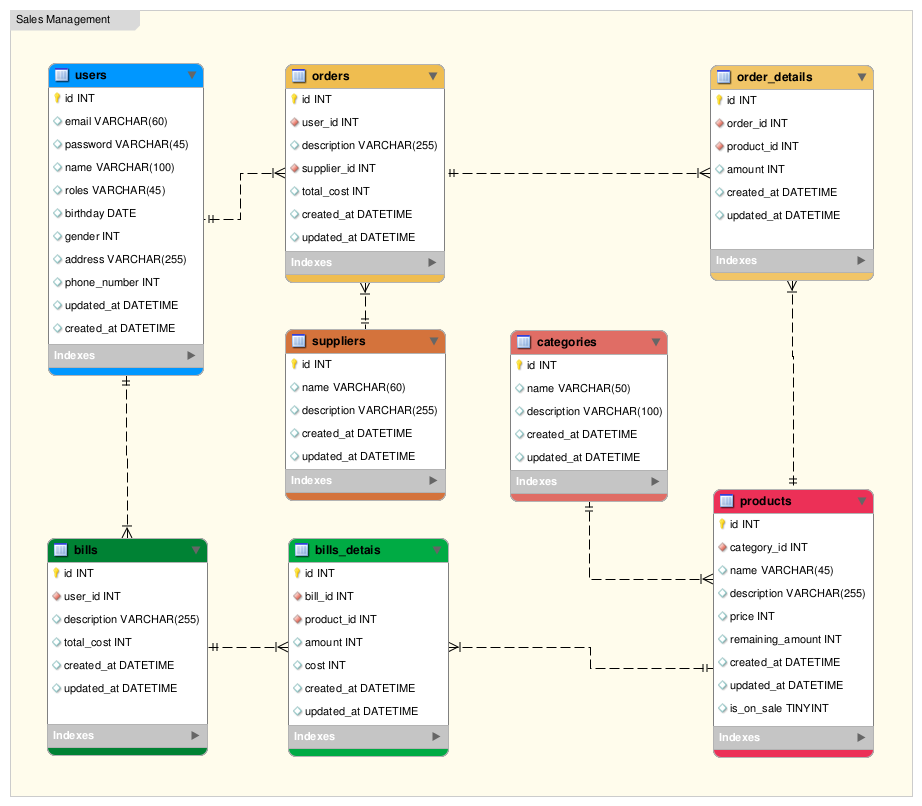
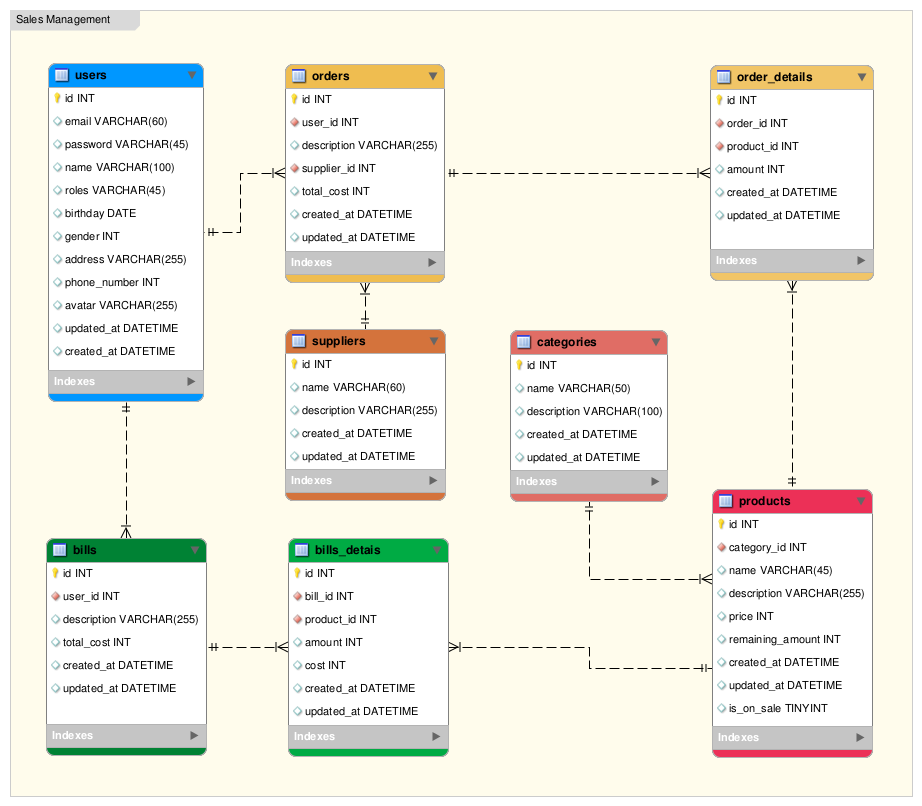
Update app.blade.php and database docs

diff --git a/public/css/custom.css b/public/css/custom.css
@@ -1,0 +1,3 @@
+.site_title {
+    font-size: 20px;
+}

diff --git a/resources/views/layouts/app.blade.php b/resources/views/layouts/app.blade.php
@@ -13,16 +13,11 @@
     <link href="/bower_resources/gentelella/vendors/bootstrap/dist/css/bootstrap.min.css" rel="stylesheet">
     <!-- Font Awesome -->
     <link href="/bower_resources/gentelella/vendors/font-awesome/css/font-awesome.min.css" rel="stylesheet">
-    <!-- iCheck -->
-    <link href="/bower_resources/gentelella/vendors/iCheck/skins/flat/green.css" rel="stylesheet">
-    <!-- bootstrap-progressbar -->
-    <link href="/bower_resources/gentelella/vendors/bootstrap-progressbar/css/bootstrap-progressbar-3.3.4.min.css" rel="stylesheet">
-    <!-- jVectorMap -->
-    <link href="/css/maps/jquery-jvectormap-2.0.3.css" rel="stylesheet"/>
-
     <!-- Custom Theme Style -->
     <link href="/bower_resources/gentelella/build/css/custom.min.css" rel="stylesheet">
-    @stack('scripts')
+    <!-- Custom css -->
+    <link rel="stylesheet" href="/css/custom.css">
+    @stack('stylesheet')
   </head>
 
   <body class="nav-md">
@@ -31,7 +26,7 @@
         <div class="col-md-3 left_col menu_fixed">
           <div class="left_col scroll-view">
             <div class="navbar nav_title" style="border: 0;">
-              <a href="index.html" class="site_title"><i class="fa fa-tags"></i> <span>Sales Mgmt</span></a>
+              <a href="{{ url('/home') }}" class="site_title"><i class="fa fa-tags"></i> <span>Sales Management</span></a>
             </div>
 
             <div class="clearfix"></div>
@@ -39,11 +34,11 @@
             <!-- menu profile quick info -->
             <div class="profile">
               <div class="profile_pic">
-                <img src="/bower_resources/gentelella/production/images/img.jpg" alt="..." class="img-circle profile_img">
+                <img src="/file/avatar/{{ Auth::user()->avatar }}" alt="..." class="img-circle profile_img">
               </div>
               <div class="profile_info">
                 <span>Welcome,</span>
-                <h2>John Doe</h2>
+                <h2>{{ Auth::user()->name }}</h2>
               </div>
             </div>
             <!-- /menu profile quick info -->
@@ -110,11 +105,11 @@
               <ul class="nav navbar-nav navbar-right">
                 <li class="">
                   <a href="javascript:;" class="user-profile dropdown-toggle" data-toggle="dropdown" aria-expanded="false">
-                    <img src="/bower_resources/gentelella/production/images/img.jpg" alt="">John Doe
+                    <img src="/file/avatar/{{ Auth::user()->avatar }}" alt="">{{ Auth::user()->name }}
                     <span class=" fa fa-angle-down"></span>
                   </a>
                   <ul class="dropdown-menu dropdown-usermenu pull-right">
-                    <li><a href="{{ url('/profile') }}"> Profile</a></li>
+                    <li><a href="{{ url('/user/' . Auth::user()->id) }}"> Profile</a></li>
                     <li>
                       <a href="{{ url('/profile/setting') }}"> Settings</a>
                     </li>
@@ -159,7 +154,7 @@
         <!-- footer content -->
         <footer>
           <div class="pull-right">
-            Sales Managements System by AT-Internships <a href="#">Superman</a>
+            <a href="https://github.com/AT-PHPIntership/Sales_Management">Sales Managements System by AT-Internships Team <i class="fa fa-github"></i></a>
           </div>
           <div class="clearfix"></div>
         </footer>
@@ -175,32 +170,6 @@
     <script src="/bower_resources/gentelella/vendors/fastclick/lib/fastclick.js"></script>
     <!-- NProgress -->
     <script src="/bower_resources/gentelella/vendors/nprogress/nprogress.js"></script>
-    <!-- Chart.js -->
-    <script src="/bower_resources/gentelella/vendors/Chart.js/dist/Chart.min.js"></script>
-    <!-- gauge.js -->
-    <script src="/bower_resources/gentelella/vendors/bernii/gauge.js/dist/gauge.min.js"></script>
-    <!-- bootstrap-progressbar -->
-    <script src="/bower_resources/gentelella/vendors/bootstrap-progressbar/bootstrap-progressbar.min.js"></script>
-    <!-- iCheck -->
-    <script src="/bower_resources/gentelella/vendors/iCheck/icheck.min.js"></script>
-    <!-- Skycons -->
-    <script src="/bower_resources/gentelella/vendors/skycons/skycons.js"></script>
-    <!-- Flot -->
-    <script src="/bower_resources/gentelella/vendors/Flot/jquery.flot.js"></script>
-    <script src="/bower_resources/gentelella/vendors/Flot/jquery.flot.pie.js"></script>
-    <script src="/bower_resources/gentelella/vendors/Flot/jquery.flot.time.js"></script>
-    <script src="/bower_resources/gentelella/vendors/Flot/jquery.flot.stack.js"></script>
-    <script src="/bower_resources/gentelella/vendors/Flot/jquery.flot.resize.js"></script>
-    <!-- Flot plugins -->
-    <script src="/js/flot/jquery.flot.orderBars.js"></script>
-    <script src="/js/flot/date.js"></script>
-    <script src="/js/flot/jquery.flot.spline.js"></script>
-    <script src="/js/flot/curvedLines.js"></script>
-    <!-- jVectorMap -->
-    <script src="/js/maps/jquery-jvectormap-2.0.3.min.js"></script>
-    <!-- bootstrap-daterangepicker -->
-    <script src="/js/moment/moment.min.js"></script>
-    <script src="/js/datepicker/daterangepicker.js"></script>
 
     <!-- Custom Theme Scripts -->
     <script src="/bower_resources/gentelella/build/js/custom.min.js"></script>
